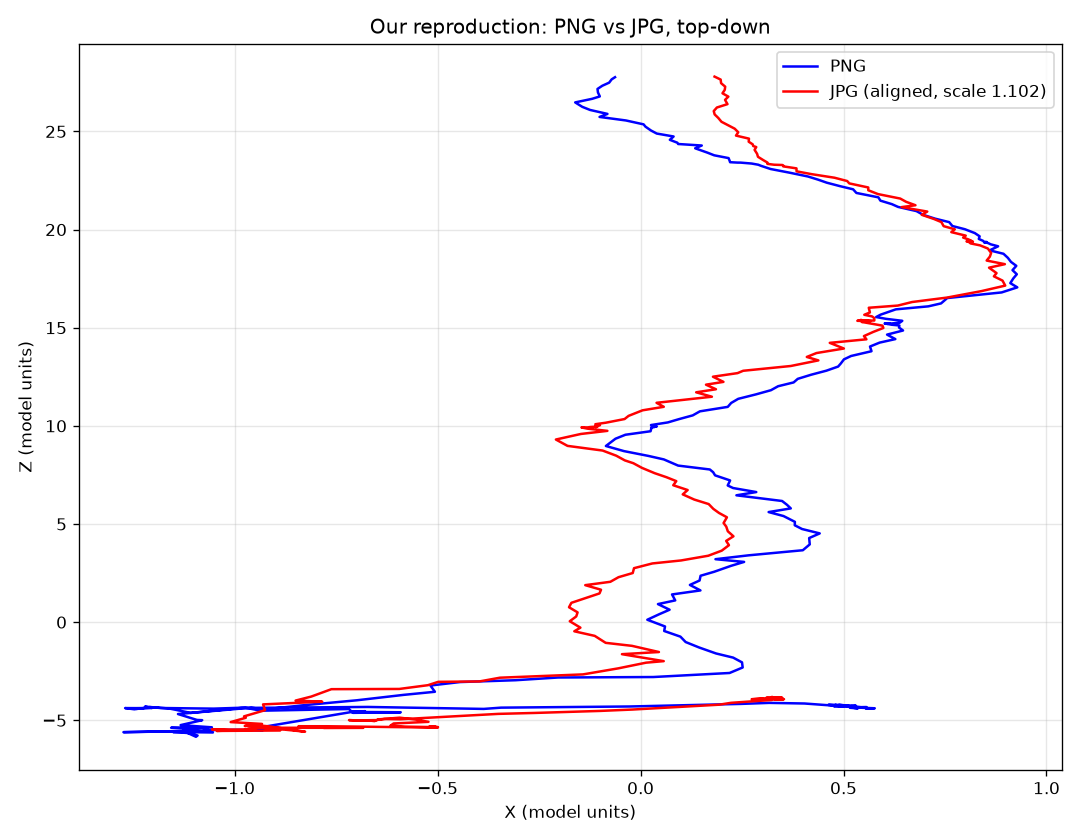
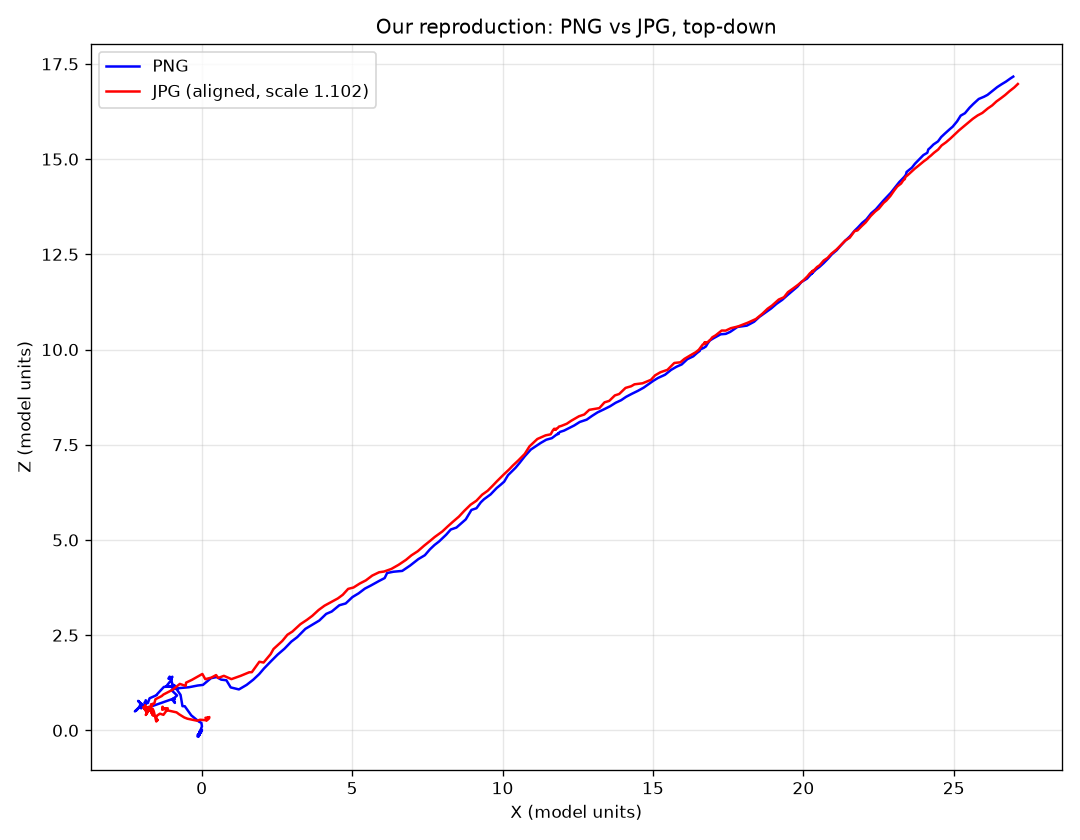
rescale visual alignment in graphs

diff --git a/analysis/plot_pair.py b/analysis/plot_pair.py
@@ -16,6 +16,16 @@ png = load_centres("runs/out/png_1/camera_poses.txt")
 jpg = load_centres("runs/out/jpg_1/camera_poses.txt")
 jpg_al, s = align(jpg, png)
 
+# cosmetic: rotate in the X-Z plane so the walk heads the same way as the provided figure,
+# and put frame 0 at the origin. Rotation/shift are free choices; they change nothing physical.
+theta = np.arctan2(14, 22) - np.arctan2(png[-1, 2] - png[0, 2], png[-1, 0] - png[0, 0])
+c, s_ = np.cos(theta), np.sin(theta)
+def rot(P):
+    Q = P - png[0]
+    x, z = Q[:, 0], Q[:, 2]
+    return np.stack([c * x - s_ * z, Q[:, 1], s_ * x + c * z], axis=1)
+png, jpg_al = rot(png), rot(jpg_al)
+
 fig, ax = plt.subplots(figsize=(9, 7))
 ax.plot(png[:, 0], png[:, 2], c="blue", lw=1.5, label="PNG")
 ax.plot(jpg_al[:, 0], jpg_al[:, 2], c="red", lw=1.5, label=f"JPG (aligned, scale {s:.3f})")

diff --git a/analysis/eval.py b/analysis/eval.py
@@ -95,6 +95,14 @@ for a in RUNS:
 Path("figures").mkdir(exist_ok=True)
 colors = {"png_1": "tab:blue", "png_2": "tab:cyan", "jpg_1": "tab:red", "jpgbar_1": "tab:orange", "noise_1": "tab:green", "noise_2": "tab:olive"}
 
+# cosmetic: rotate all aligned runs to match the provided figure's heading, frame 0 at origin
+theta = np.arctan2(14, 22) - np.arctan2(ref[-1, 2] - ref[0, 2], ref[-1, 0] - ref[0, 0])
+c_, s_ = np.cos(theta), np.sin(theta)
+def rot(P):
+    Q = P - ref[0]; x, z = Q[:, 0], Q[:, 2]
+    return np.stack([c_ * x - s_ * z, Q[:, 1], s_ * x + c_ * z], axis=1)
+aligned = {r: rot(P) for r, P in aligned.items()}
+
 fig, ax = plt.subplots(figsize=(9, 7))
 for r in RUNS:
     P = aligned[r]
